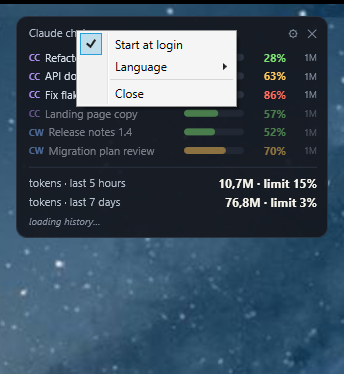
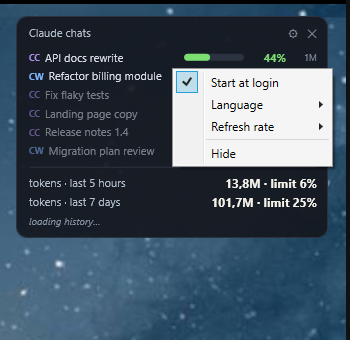
Documentation and screenshots for the current build
Autostart is a scheduled task with a logon trigger now, not a Run entry, and
there is deliberately no repeating trigger. The cross hides the widget instead
of ending it, the tray icon says whether it runs and brings it back, and a click
on a row no longer un-maximises the Claude window.

Screenshots retaken from a throwaway copy that renders placeholder chat titles.

diff --git a/README.ru.md b/README.ru.md
@@ -26,7 +26,8 @@ CC  Handover 2026-08-13    ███████░░░   63%   1M
 положения, а один только процент не даёт понять, в каком вы находитесь.
 
 Строка тускнеет после 30 минут молчания. Под курсором показываются путь проекта, точное
-число токенов, модель и когда чат был активен в последний раз.
+число токенов, модель и когда чат был активен в последний раз. Щелчок по строке выводит
+окно Claude вперёд, не трогая его размер: развёрнутое остаётся развёрнутым.
 
 Подвал складывает все сессии, включая субагентов, по двум окнам лимита — 5 часов и 7 дней.
 Если приложение записало расход по плану, рядом с суммой показывается и его процент.
@@ -40,18 +41,21 @@ powershell -STA -NoProfile -WindowStyle Hidden -ExecutionPolicy Bypass -File Cla
 Или двойным щелчком по `Start-ContextMeter.bat`. Ярлык с иконкой делается просто: цель —
 `.bat`, иконка — `ClaudeContextMeter.ico`.
 
-Виджет перетаскивается мышью и запоминает, куда его поставили. Закрывается крестиком.
+Виджет перетаскивается мышью и запоминает, куда его поставили. Крестик его **прячет** —
+виджет продолжает работать и возвращается из значка в трее. По-настоящему завершает работу
+только пункт **«Выйти»** в меню значка.
 
 ## Настройки
 
 ![Меню](docs/menu.png)
 
-Щелчок по шестерёнке или правый щелчок по виджету:
+Щелчок по шестерёнке, правый щелчок по виджету или правый щелчок по значку в трее — везде
+одно и то же. Двойной щелчок по значку показывает или прячет окно.
 
-- **Запускать при входе в систему** — запись в `HKCU\...\CurrentVersion\Run`. Без прав
-  администратора, без задачи в планировщике, без ярлыка в автозагрузке. Состояние
-  перечитывается из реестра каждый раз, когда открывается меню: если запись убрали
-  снаружи, меню это покажет, а не оставит устаревшую галочку.
+- **Запускать при входе в систему** — задача в планировщике с условием «при входе»,
+  от вашего имени, без прав администратора. Галочка читается из планировщика каждый раз,
+  когда открывается меню: если задачу убрали снаружи, меню покажет «выключено», а не
+  оставит устаревшую отметку.
 - **Язык** — английский или русский, применяется сразу.
 - **Частота обновления** — обычная (3 с), экономная (10 с) или минимальная (30 с). Такт и
   полное пересканирование папок растягиваются вместе: дорогая половина — именно
@@ -61,13 +65,28 @@ powershell -STA -NoProfile -WindowStyle Hidden -ExecutionPolicy Bypass -File Cla
 он никому не нужен. Вместе с настройкой частоты это честная замена «убрать его на
 свободное ядро»: привязка к ядру не уменьшила бы работу, а только заперла бы её.
 
-Команда автозапуска строится из фактического расположения скрипта, а устаревший путь
-чинится при следующем старте. Переезд папки автозапуск не ломает.
+Команда задачи строится из фактического расположения скрипта, а устаревший путь чинится при
+следующем старте, так что переезд папки автозапуск не ломает.
 
-Если виджет раньше запускался ярлыком из автозагрузки или задачей планировщика, при первом
-запуске он их перенимает: сначала пишется запись в реестре, и только после того, как это
-удалось, старые механизмы удаляются. Две записи автозапуска на одну программу — та
-неприятность в диспетчере задач, которую лучше исключить по устройству.
+Задача, а не запись в реестре `Run`, потому что запись `Run` срабатывает при входе в
+систему и больше никогда — а машина, которая неделями засыпает вместо перезагрузки, может
+столько же не видеть входа. Повторяющегося условия здесь намеренно нет: перезапуск виджета
+по таймеру прячет то, что его убило, и лезет на экран в дни, когда Claude вообще не нужен.
+
+Всё, чем виджет запускался раньше — ярлык в автозагрузке, запись в `Run`, — перенимается
+при первом запуске: сначала регистрируется задача, и только после того, как это удалось,
+старый механизм удаляется. Две записи автозапуска на одну программу — та неприятность в
+диспетчере задач, которую лучше исключить по устройству.
+
+## Значок в области уведомлений
+
+Значок в трее отвечает на вопрос «работает ли он и куда делся». В его меню те же настройки
+плюс **«Показать / Скрыть»** и **«Выйти»**, а при выходе значок явно удаляется, а не
+остаётся призраком, который исчезает, только если провести по нему мышью.
+
+Windows 11 складывает новые значки под стрелку `^`. Чтобы значок был на виду, перетащите
+его оттуда на панель задач — это выбор пользователя, а не то, что программа должна решать
+за него.
 
 ## Откуда берутся цифры
 

diff --git a/README.md b/README.md
@@ -26,7 +26,8 @@ That last column matters more than it looks: 80 % of 200k and 80 % of 1M are ver
 different situations, and a percentage on its own hides which one you are in.
 
 Rows dim after 30 minutes of silence. Hovering a row shows the project path, the exact
-token count, the model, and when the chat was last active.
+token count, the model, and when the chat was last active. Clicking one brings the Claude
+window to the front and leaves its size alone — a maximised window stays maximised.
 
 The footer adds up every session, subagents included, over the two rate-limit windows —
 5 hours and 7 days. When the app has recorded plan usage, the percentage it reports is
@@ -41,18 +42,19 @@ powershell -STA -NoProfile -WindowStyle Hidden -ExecutionPolicy Bypass -File Cla
 Or double-click `Start-ContextMeter.bat`. A shortcut with the app icon is easy to make:
 point it at the `.bat` and set its icon to `ClaudeContextMeter.ico`.
 
-Drag the widget anywhere — it remembers where you put it. Close it with `✕`.
+Drag the widget anywhere — it remembers where you put it. `✕` hides it; it keeps running
+and comes back from the tray icon. Only **Exit** in the tray menu really ends it.
 
 ## Settings
 
 ![The menu](docs/menu.png)
 
-Click the gear or right-click the widget:
+Click the gear, right-click the widget, or right-click the tray icon — the same settings
+either way. Double-clicking the tray icon shows or hides the window.
 
-- **Start at login** — registers the widget under `HKCU\...\CurrentVersion\Run`. No admin
-  rights, no scheduled task, no shortcut in the Startup folder. The state is read back
-  from the registry every time the menu opens, so an entry removed from outside is
-  reflected honestly instead of showing a stale tick.
+- **Start at login** — registers a scheduled task with a logon trigger, running as you,
+  without admin rights. The tick is read from the Task Scheduler every time a menu opens,
+  so a task removed from outside shows as off instead of leaving a stale tick behind.
 - **Language** — English or Russian, applied immediately.
 - **Refresh rate** — Normal (3 s), Easy (10 s) or Minimal (30 s). Both the tick and the
   recursive rescan are stretched together, because the rescan is the expensive half;
@@ -62,13 +64,28 @@ The widget runs at `BelowNormal` priority, so it gets the processor only when no
 wants it. Together with the refresh setting that is the honest version of "keep it off my
 way" — pinning it to one core would not reduce the work, only confine it.
 
-The autostart command is built from the script's own location, and a stale path is
-repaired on the next start. Moving the folder does not break it.
+The task's command is built from the script's own location, and a stale path is repaired on
+the next start, so moving the folder does not break it.
 
-If the widget was previously started by a Startup-folder shortcut or a scheduled task, it
-takes those over on first run: the registry entry is written first, and only once that
-succeeded are the old mechanisms removed. Two autostart entries for one program is a
-Task Manager annoyance worth designing out.
+A scheduled task rather than a `Run` registry entry, because a `Run` entry fires at logon
+and never again — and a machine that sleeps for weeks instead of rebooting may not see a
+logon for just as long. There is deliberately no repeating trigger: restarting a widget on
+a timer hides whatever killed it, and pushes it onto the screen on days you are not using
+Claude at all.
+
+Anything the widget was started by before — a Startup-folder shortcut, a `Run` entry — is
+taken over on first run: the task is registered first, and only once that succeeded is the
+old mechanism removed. Two autostart entries for one program is a Task Manager annoyance
+worth designing out.
+
+## Notification area
+
+The tray icon is the answer to "is it running, and where did it go". Its menu carries the
+same settings plus **Show / Hide** and **Exit**, and it is removed on exit rather than left
+as a ghost that only disappears when the mouse brushes it.
+
+Windows 11 files new tray icons under the `^` overflow. Drag it onto the taskbar to keep
+it in sight — that is the user's call to make, not something a program should force.
 
 ## Where the numbers come from
 
